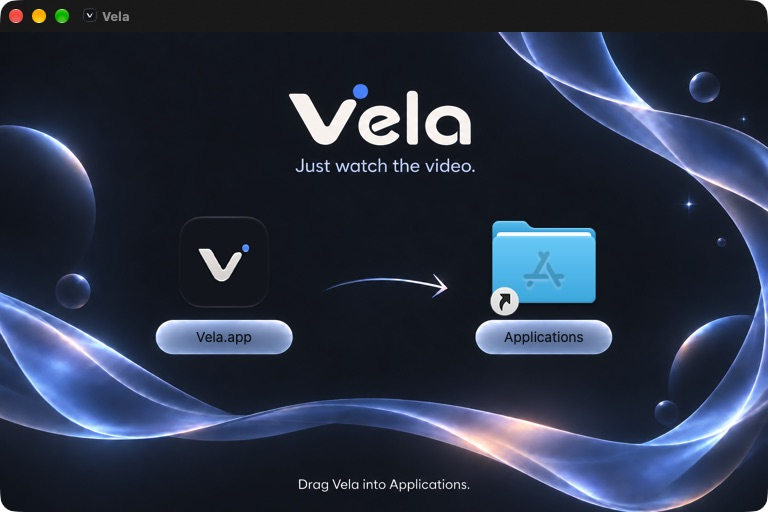
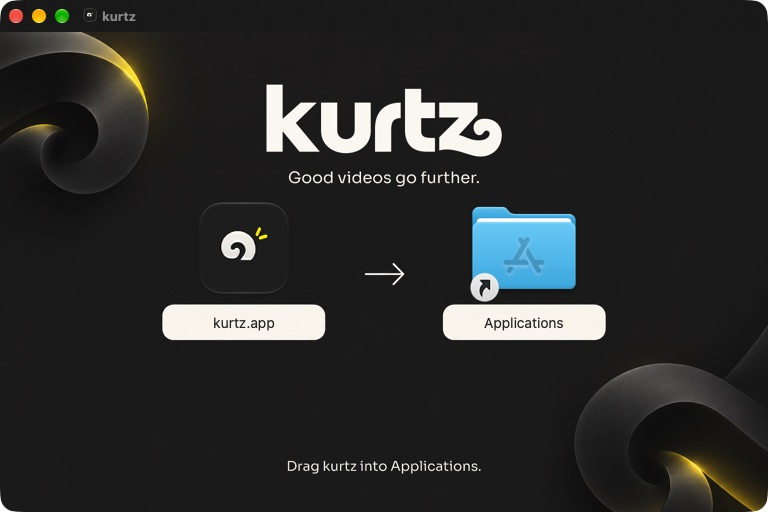
Preserve original installer artwork and record the kurtz preview [skip ci]

diff --git a/marketing/dmg/README.md b/marketing/dmg/README.md
@@ -25,3 +25,6 @@ build/dmg-tools/bin/python Tools/kurtz/package-dmg.py \
 The packager requires a universal, Developer-ID-signed app with a stapled ticket
 for production and refuses to overwrite an existing output. Legacy artwork and
 release images remain in Git history and the original release artifacts.
+
+The original Vela prompts are preserved verbatim in `archive-vela/`. They are
+historical provenance; current illustration instructions are in `kurtz-art-prompt.txt`.
